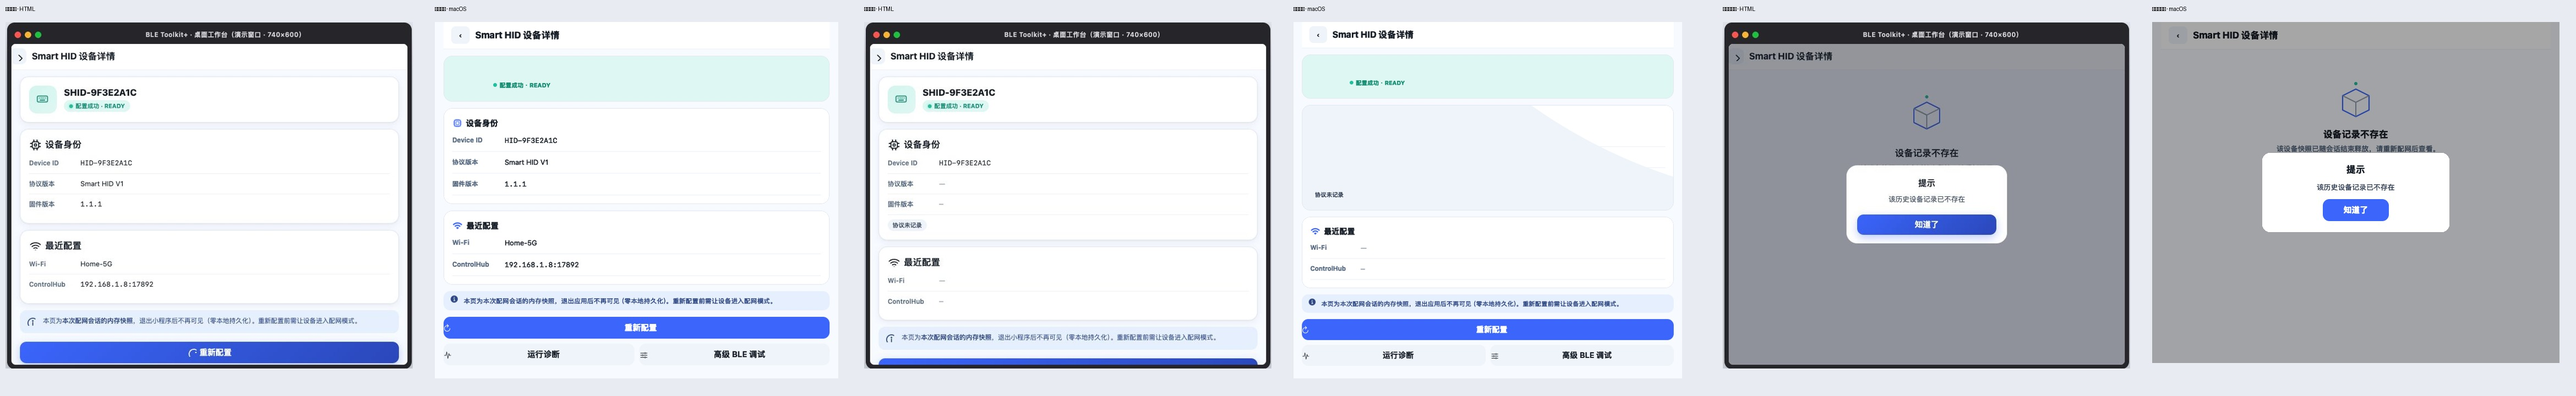
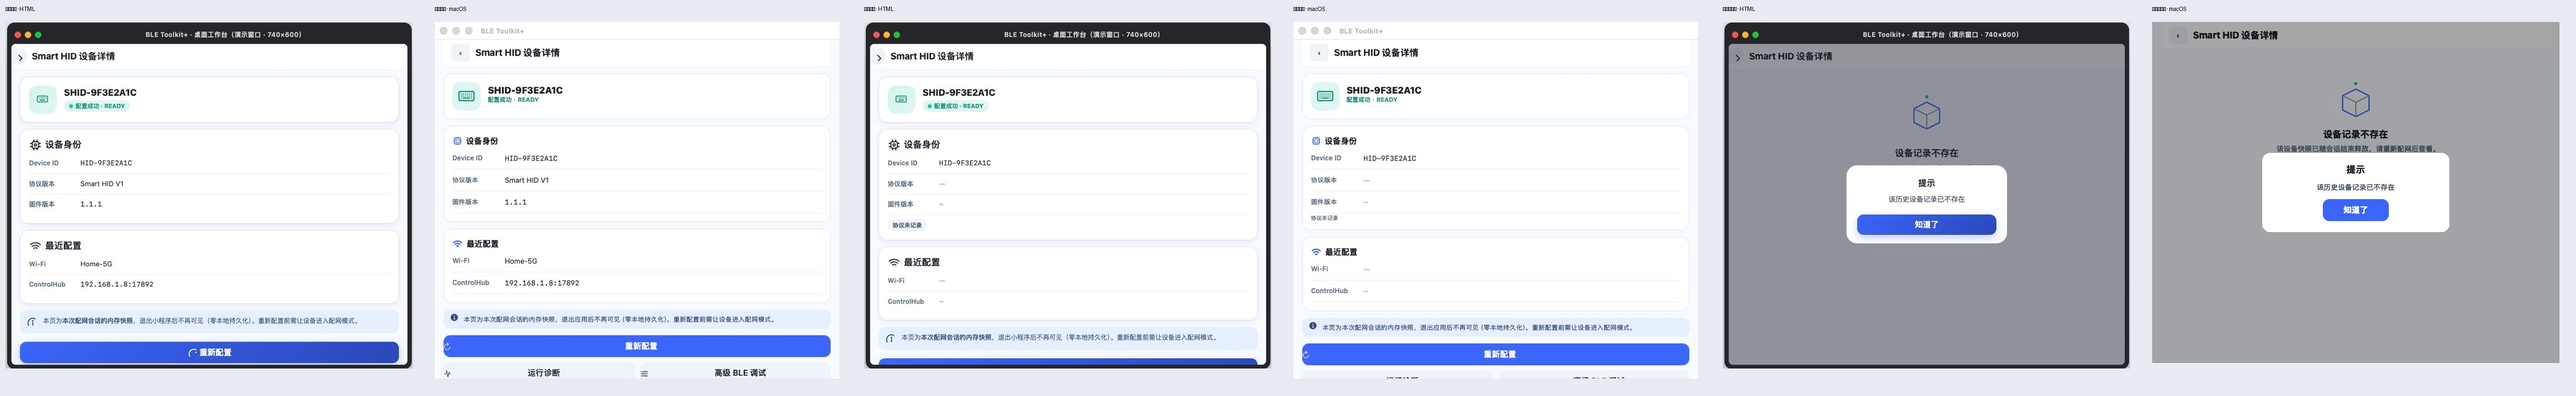
fix(macos-ui): finalize Smart HID flow-state parity

diff --git a/apps/desktop/macos/SmartBLE-mac/Sources/UI/Pages/P003HidDetailPage.swift b/apps/desktop/macos/SmartBLE-mac/Sources/UI/Pages/P003HidDetailPage.swift
@@ -112,7 +112,10 @@ final class P003HidDetailPage: NSViewController, PageProtocol {
         ))
         let heroLabel = NSTextField(labelWithAttributedString: heroText)
         heroLabel.maximumNumberOfLines = 2
+        heroLabel.lineBreakMode = .byWordWrapping
+        heroLabel.cell?.wraps = true
         heroLabel.translatesAutoresizingMaskIntoConstraints = false
+        heroLabel.heightAnchor.constraint(equalToConstant: 42).isActive = true
         let heroContent = NSView()
         heroContent.translatesAutoresizingMaskIntoConstraints = false
         heroContent.addSubview(iconBox)
@@ -137,7 +140,7 @@ final class P003HidDetailPage: NSViewController, PageProtocol {
             kvRow("固件版本", device.firmware, mono: true),
         ]
         if device.proto == nil {
-            identityRows.append(hstack([chip("协议未记录"), NSView()], spacing: 0))
+            identityRows.append(makeLabel("协议未记录", size: 10, weight: .semibold, color: DS.mut))
         }
         let identityCard = Card()
         identityCard.setViews(identityRows, spacing: 2)

diff --git a/apps/desktop/macos/SmartBLE-mac/Sources/Core/PageSmoke.swift b/apps/desktop/macos/SmartBLE-mac/Sources/Core/PageSmoke.swift
@@ -89,6 +89,7 @@ enum PageSmoke {
             await settle(350)
             captureRoot(controller: controller, name: "06-p003-empty", outDir: outDir)
             controller.closeLayer()
+            p003.applyPreviewState(.normal)
         }
 
         controller.shared.currentDevice = nil
@@ -243,6 +244,8 @@ enum PageSmoke {
             }
             if let p005State {
                 controller.shared.currentDevice = nil
+                (controller.page(.p003) as? P003HidDetailPage)?.applyPreviewState(.normal)
+                controller.closeLayer()
                 p005.applyPreviewState(p005State)
                 controller.router.go(.p005)
                 print("[UIPREVIEW] ready=\(previewValue)")

diff --git a/verification/apple-native-v1/20260910-flow-states-audit/audit.md b/verification/apple-native-v1/20260910-flow-states-audit/audit.md
@@ -1,0 +1,56 @@
+# Apple native P002/P003/P005 state audit
+
+```yaml
+date: 2026-09-10
+scope: P002 provisioning + P003 session snapshot + P005 diagnostics
+reference: canonical App/Desktop high-fi HTML
+result: PASS_KEY_FLOW_STATES_WITH_DOCUMENTED_RUNTIME_DIFFERENCES
+```
+
+## Audit scope
+
+- HTML references were captured from both `platform/app/high-fi` and `platform/desktop/high-fi` in this run.
+- iOS evidence was captured from deterministic simulator launch states.
+- macOS evidence combines deterministic state captures with real packaged-window captures for P002 success and P003 normal/missing-field states.
+- Two AppKit `cacheDisplay` P003 frames that misplaced layer-backed tiles were rejected and retained under `rejected/`; the accepted evidence uses `*-window.jpg` captures.
+
+## Steps and health
+
+| Step | State | iOS | macOS | Evidence |
+|---|---|---|---|---|
+| 1 | P002 identity verification failure remains on step 1 | PASS | PASS | `comparison/ios-p002.jpg`, `comparison/macos-p002.jpg` |
+| 2 | P002 provisioning success / READY | PASS | PASS | same comparison files |
+| 3 | P002 `wifi_failed` recovery to form | PASS | PASS | same comparison files |
+| 4 | P003 normal in-memory session snapshot | PASS | PASS | `comparison/ios-p003.jpg`, `comparison/macos-p003.jpg` |
+| 5 | P003 missing fields render `—` and protocol notice | PASS | PASS | same comparison files |
+| 6 | P003 missing record + return notice | PASS_WITH_OS_ALERT | PASS | same comparison files |
+| 7 | P005 live diagnostics / all healthy | PASS | PASS | `comparison/ios-p005.jpg`, `comparison/macos-p005.jpg` |
+| 8 | P005 offline / tests not yet run | PASS | PASS | same comparison files |
+| 9 | P005 connection failure + detailed error entry | PASS | PASS | same comparison files |
+
+## Functional corrections
+
+- iOS P002 identity failures now stay in the connection phase and expose `重新连接` plus `返回设备列表`; they no longer fall through to the status phase.
+- P003 missing records now show the canonical recovery notice. iOS uses the system alert; macOS uses the product modal from the desktop shell.
+- P003 missing values use `—`, and the protocol-not-recorded notice is visible without stretching the card.
+- P005 offline/connection-failed states keep all five rows pending because the checks never ran; a failed connection is not presented as a completed BLE diagnostic.
+- macOS success and secondary action rows now follow the HTML full-width/paired-button geometry.
+
+## Runtime differences
+
+- macOS P002 preview uses a real scan result to satisfy the native `CBPeripheral` boundary, so the device name/identifier differs from the HTML fixture while hierarchy and state remain equivalent.
+- Native Swift uses protocol version `1.0`; one HTML fixture labels the same protocol `V1`.
+- The native `wifi_failed` mapping leaves downstream rows pending. The timed HTML fixture can momentarily show an already-advanced downstream row; native behavior follows the shared Smart HID protocol state map.
+
+## Accessibility and evidence limits
+
+- The iOS UI suite reaches each state through launch arguments and asserts the recovery actions, empty-state alert, status labels, and detailed-error entry.
+- Screenshots do not prove complete VoiceOver rotor order, Dynamic Type at accessibility sizes, or macOS full-keyboard focus order.
+
+## Verification
+
+- iOS SwiftPM unit tests: 12/12 PASS.
+- iOS flow-state UI tests: 3/3 PASS; combined iOS UI suite: 5/5 PASS.
+- macOS CoreUnit: 62/62 PASS; PageSmoke: 17/17 PASS. UIS-12 covers every P002/P003/P005 variant in this audit.
+- Shared Swift Smart HID vectors: 9/9 PASS.
+- Release Metadata drift check: PASS.

diff --git a/verification/apple-native-v1/20260909-mac-a2/functional-summary.md b/verification/apple-native-v1/20260909-mac-a2/functional-summary.md
@@ -6,7 +6,7 @@ host: macOS
 branch: feature/apple-native-core
 baseline: 1ec8d05e2f5598d2d45e5cd3950e79208d2a79b3
 status: PASS_WITH_BLOCKED_E5
-visual_status: PARTIAL_DEFAULT_STATE_PASS
+visual_status: PARTIAL_ACCESSIBILITY_GATE
 ```
 
 ## Scope
@@ -40,7 +40,7 @@ visual_status: PARTIAL_DEFAULT_STATE_PASS
 | N-MAC CoreUnit | `swift run SmartBLE-mac --unit-core` | PASS · 62/62 |
 | N-MAC PageSmoke | `swift run SmartBLE-mac --smoke-pages` | PASS · 17/17 |
 | N-IOS SwiftPM | `cd apps/ios && swift test` | PASS · 12/12 |
-| N-IOS Simulator XCTest | `xcodebuild -project SmartBLE.xcodeproj -scheme SmartBLEiOS -destination 'platform=iOS Simulator,name=iPhone 17 Pro Max' CODE_SIGNING_ALLOWED=NO test` | PASS · unit 12/12 + TabBar UI 2/2 |
+| N-IOS Simulator XCTest | `xcodebuild -project SmartBLE.xcodeproj -scheme SmartBLEiOS -destination 'platform=iOS Simulator,name=iPhone 17 Pro Max' CODE_SIGNING_ALLOWED=NO test` | PASS · unit 12/12 + UI 5/5（TabBar 2 + flow-state 3） |
 
 ## N-IOS functional coverage
 
@@ -69,4 +69,4 @@ Unlock condition: sign in to the intended Apple Developer account in Xcode and c
 
 ## UI status
 
-The initial 2026-09-09 screenshot audit found visible product drift. The correction passes replaced the iOS legacy shell, aligned all nine default states, rebuilt macOS P009/P010, fixed the compressed-version layout defect, and then closed P001 filter-expanded/no-match/scan-failure/Bluetooth-off/unsupported states plus iOS landscape reflow. Evidence is under `verification/apple-native-v1/20260909-ui-audit/` and `verification/apple-native-v1/20260909-ui-audit-round2/`. Overall status remains **PARTIAL** until P002/P003/P005 success/error variants and VoiceOver/Dynamic Type/keyboard traversal are captured and compared.
+The initial 2026-09-09 screenshot audit found visible product drift. The correction passes now cover all nine default pages, P001 filter/error/permission/rotation states, all four TabBar selections and hiding behavior, plus P002/P003/P005 key success/error/empty variants. Evidence is under `verification/apple-native-v1/20260909-ui-audit/`, `20260909-ui-audit-round2/`, `20260910-tabbar-audit/`, and `20260910-flow-states-audit/`. Overall status remains **PARTIAL_ACCESSIBILITY_GATE** until VoiceOver, Dynamic Type, macOS keyboard traversal, and physical-iPhone signing validation complete.

diff --git a/docs/specs/09_test/CROSS_IMPLEMENTATION_PARITY_MATRIX.md b/docs/specs/09_test/CROSS_IMPLEMENTATION_PARITY_MATRIX.md
@@ -160,6 +160,6 @@
 - 新增 `core/apple/SmartHidCore`，Swift 真实消费 `smart-hid-v1-vectors.json`；跨平台调度 Swift lane 9/9 PASS。
 - N-MAC 已迁移到共享 Core，保持 CoreUnit 62/62、PageSmoke 17/17。
 - N-IOS 已补齐 P002/P003/P005/P010、Profile STRONG/WEAK 双入口、INFO/INPUT/STATUS、framed-v1、60 秒状态跟踪、五项诊断和 Release Metadata 投影。
-- iOS SwiftPM 测试 12/12、iOS Simulator 单元 XCTest 12/12、TabBar UI XCTest 2/2；物理 iPhone 可见，但本机 Xcode 无登录账号/描述文件，当前 E5=`BLOCKED_SIGNING`。
-- UI 结构和文案以 `prototype/platform/{app,desktop}/high-fi` 为源。2026-09-09 初审确认 N-IOS/N-MAC 视觉 FAIL；两轮修正已覆盖九页默认态、P001 筛选展开/无匹配/扫描失败/蓝牙关闭/平台不支持及 iOS 横屏，并重建 P009/P010。当前为 **PARTIAL_KEY_STATES_PASS**；P002/P003/P005 成功/错误变体与 VoiceOver/Dynamic Type/键盘遍历未完成前不得写整体验收 PASS。见 `verification/apple-native-v1/20260909-ui-audit/audit.md` 与 `verification/apple-native-v1/20260909-ui-audit-round2/audit.md`。
+- iOS SwiftPM 测试 12/12、iOS Simulator 单元 XCTest 12/12、UI XCTest 5/5（TabBar 2 + flow-state 3）；物理 iPhone 可见，但本机 Xcode 无登录账号/描述文件，当前 E5=`BLOCKED_SIGNING`。
+- UI 结构和文案以 `prototype/platform/{app,desktop}/high-fi` 为源。修正轮现已覆盖九页默认态、P001 筛选/错误/权限/横屏、四 Tab 选中与二级页隐藏，以及 P002/P003/P005 关键成功/错误/空态。当前为 **PARTIAL_ACCESSIBILITY_GATE**；VoiceOver、Dynamic Type、macOS 键盘遍历与物理 iPhone 签名验证未完成前不得写整体验收 PASS。证据见 `verification/apple-native-v1/20260909-ui-audit/`、`20260909-ui-audit-round2/`、`20260910-tabbar-audit/`、`20260910-flow-states-audit/`。
 - 证据：`verification/apple-native-v1/20260909-mac-a2/functional-summary.md`。

diff --git a/verification/apple-native-v1/20260909-ui-audit-round2/audit.md b/verification/apple-native-v1/20260909-ui-audit-round2/audit.md
@@ -52,7 +52,7 @@ result: PASS_KEY_STATES_WITH_DOCUMENTED_PLATFORM_DIFFERENCES
 
 ## Remaining gate
 
-This round closes the previously named P001 filter/error/permission/rotation gaps and the P009/P010 structural gaps. Full Apple visual acceptance still requires matched P002/P003/P005 success and error captures plus VoiceOver/Dynamic Type/keyboard checks and physical-iPhone signing validation.
+This round closes the previously named P001 filter/error/permission/rotation gaps and the P009/P010 structural gaps. P002/P003/P005 success and error states were closed in the follow-up `../20260910-flow-states-audit/audit.md`. Full Apple visual acceptance now requires VoiceOver/Dynamic Type/keyboard checks and physical-iPhone signing validation.
 
 TabBar was audited separately after this pass; see `../20260910-tabbar-audit/audit.md`. All four selected states, the connected badge, tap routing, and secondary-page hiding now pass against the HTML component contract.
 
